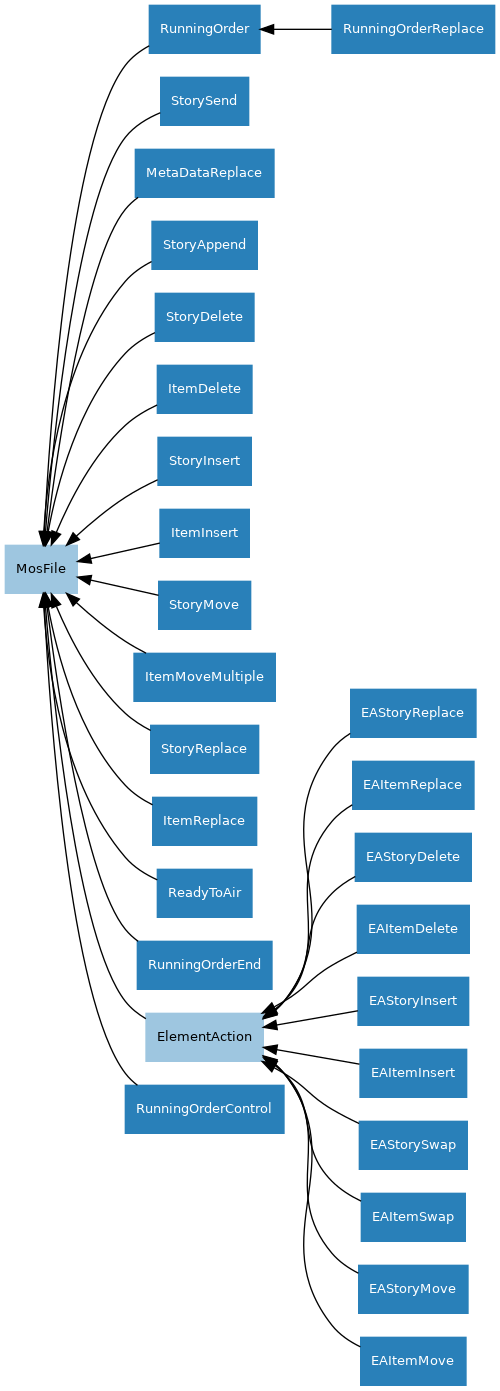
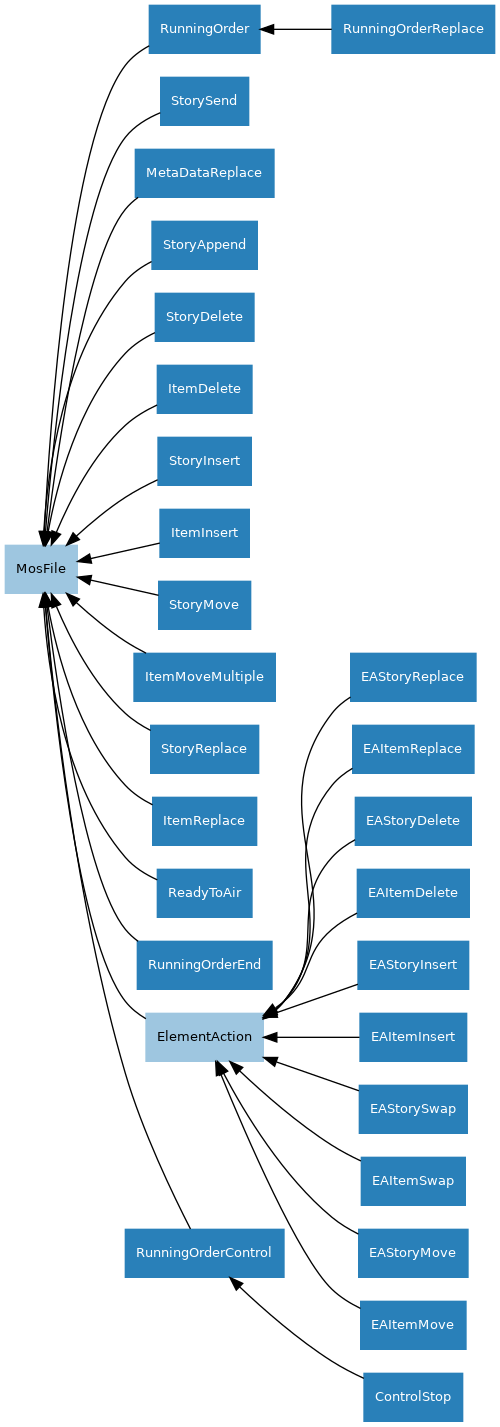
Add ControlStop as a RunningOrderControl subclass

diff --git a/tests/mostypes/test_mostype_detection.py b/tests/mostypes/test_mostype_detection.py
@@ -22,7 +22,7 @@ def test_mosfile_detect_rocreate_contents(rocreate):
     with open(rocreate) as f:
         contents = f.read()
     rc = MosFile.from_string(contents)
-    assert isinstance(rc, RunningOrder)
+    assert type(rc) == RunningOrder
 
 def test_mosfile_detect_rocreate(rocreate):
     """
@@ -30,7 +30,7 @@ def test_mosfile_detect_rocreate(rocreate):
     EXPECT: An object of type RunningOrder
     """
     rc = MosFile.from_file(rocreate)
-    assert isinstance(rc, RunningOrder)
+    assert type(rc) == RunningOrder
 
 def test_mosfile_detect_storysend(rostorysend1):
     """
@@ -38,7 +38,7 @@ def test_mosfile_detect_storysend(rostorysend1):
     EXPECT: An object of type StorySend
     """
     ss = MosFile.from_file(rostorysend1)
-    assert isinstance(ss, StorySend)
+    assert type(ss) == StorySend
 
 def test_mosfile_detect_appendstory(rostoryappend):
     """
@@ -46,7 +46,7 @@ def test_mosfile_detect_appendstory(rostoryappend):
     EXPECT: An object of type StoryAppend
     """
     sa = MosFile.from_file(rostoryappend)
-    assert isinstance(sa, StoryAppend)
+    assert type(sa) == StoryAppend
 
 def test_mosfile_detect_storydelete(rostorydelete):
     """
@@ -54,7 +54,7 @@ def test_mosfile_detect_storydelete(rostorydelete):
     EXPECT: An object of type StoryDelete
     """
     sd = MosFile.from_file(rostorydelete)
-    assert isinstance(sd, StoryDelete)
+    assert type(sd) == StoryDelete
 
 def test_mosfile_detect_storyinsert(rostoryinsert):
     """
@@ -62,7 +62,7 @@ def test_mosfile_detect_storyinsert(rostoryinsert):
     EXPECT: An object of type StoryInsert
     """
     si = MosFile.from_file(rostoryinsert)
-    assert isinstance(si, StoryInsert)
+    assert type(si) == StoryInsert
 
 def test_mosfile_detect_storymove(rostorymove):
     """
@@ -70,7 +70,7 @@ def test_mosfile_detect_storymove(rostorymove):
     EXPECT: An object of type StoryMove
     """
     sm = MosFile.from_file(rostorymove)
-    assert isinstance(sm, StoryMove)
+    assert type(sm) == StoryMove
 
 def test_mosfile_detect_storyreplace(rostoryreplace):
     """
@@ -78,7 +78,7 @@ def test_mosfile_detect_storyreplace(rostoryreplace):
     EXPECT: An object of type StoryReplace
     """
     sr = MosFile.from_file(rostoryreplace)
-    assert isinstance(sr, StoryReplace)
+    assert type(sr) == StoryReplace
 
 def test_mosfile_detect_itemdelete(roitemdelete):
     """
@@ -86,7 +86,7 @@ def test_mosfile_detect_itemdelete(roitemdelete):
     EXPECT: An object of type ItemDelete
     """
     id = MosFile.from_file(roitemdelete)
-    assert isinstance(id, ItemDelete)
+    assert type(id) == ItemDelete
 
 def test_mosfile_detect_iteminsert(roiteminsert):
     """
@@ -94,7 +94,7 @@ def test_mosfile_detect_iteminsert(roiteminsert):
     EXPECT: An object of type ItemInsert
     """
     ii = MosFile.from_file(roiteminsert)
-    assert isinstance(ii, ItemInsert)
+    assert type(ii) == ItemInsert
 
 def test_mosfile_detect_movemultipleitem(roitemmovemultiple):
     """
@@ -102,7 +102,7 @@ def test_mosfile_detect_movemultipleitem(roitemmovemultiple):
     EXPECT: An object of type ItemMoveMultiple
     """
     imm = MosFile.from_file(roitemmovemultiple)
-    assert isinstance(imm, ItemMoveMultiple)
+    assert type(imm) == ItemMoveMultiple
 
 def test_mosfile_detect_replaceitem(roitemreplace):
     """
@@ -110,7 +110,7 @@ def test_mosfile_detect_replaceitem(roitemreplace):
     EXPECT: An object of type ItemReplace
     """
     ir = MosFile.from_file(roitemreplace)
-    assert isinstance(ir, ItemReplace)
+    assert type(ir) == ItemReplace
 
 def test_mosfile_detect_roreplace(roreplace):
     """
@@ -118,7 +118,7 @@ def test_mosfile_detect_roreplace(roreplace):
     EXPECT: An object of type RunningOrderReplace
     """
     rr = MosFile.from_file(roreplace)
-    assert isinstance(rr, RunningOrderReplace)
+    assert type(rr) == RunningOrderReplace
 
 def test_mosfile_detect_elementaction_replace_story(roelementactionstoryreplace):
     """
@@ -127,7 +127,7 @@ def test_mosfile_detect_elementaction_replace_story(roelementactionstoryreplace)
     EXPECT: An object of type EAStoryReplace
     """
     ea = MosFile.from_file(roelementactionstoryreplace)
-    assert isinstance(ea, EAStoryReplace)
+    assert type(ea) == EAStoryReplace
 
 def test_mosfile_detect_elementaction_replace_item(roelementactionitemreplace):
     """
@@ -136,7 +136,7 @@ def test_mosfile_detect_elementaction_replace_item(roelementactionitemreplace):
     EXPECT: An object of type EAItemReplace
     """
     ea = MosFile.from_file(roelementactionitemreplace)
-    assert isinstance(ea, EAItemReplace)
+    assert type(ea) == EAItemReplace
 
 def test_mosfile_detect_elementaction_delete_story(roelementactionstorydelete):
     """
@@ -145,7 +145,7 @@ def test_mosfile_detect_elementaction_delete_story(roelementactionstorydelete):
     EXPECT: An object of type EAStoryDelete
     """
     ea = MosFile.from_file(roelementactionstorydelete)
-    assert isinstance(ea, EAStoryDelete)
+    assert type(ea) == EAStoryDelete
 
 def test_mosfile_detect_elementaction_delete_item(roelementactionitemdelete):
     """
@@ -154,7 +154,7 @@ def test_mosfile_detect_elementaction_delete_item(roelementactionitemdelete):
     EXPECT: An object of type EAItemDelete
     """
     ea = MosFile.from_file(roelementactionitemdelete)
-    assert isinstance(ea, EAItemDelete)
+    assert type(ea) == EAItemDelete
 
 def test_mosfile_detect_elementaction_insert_story(roelementactionstoryinsert):
     """
@@ -163,7 +163,7 @@ def test_mosfile_detect_elementaction_insert_story(roelementactionstoryinsert):
     EXPECT: An object of type EAStoryInsert
     """
     ea = MosFile.from_file(roelementactionstoryinsert)
-    assert isinstance(ea, EAStoryInsert)
+    assert type(ea) == EAStoryInsert
 
 def test_mosfile_detect_elementaction_insert_item(roelementactioniteminsert):
     """
@@ -172,7 +172,7 @@ def test_mosfile_detect_elementaction_insert_item(roelementactioniteminsert):
     EXPECT: An object of type EAItemInsert
     """
     ea = MosFile.from_file(roelementactioniteminsert)
-    assert isinstance(ea, EAItemInsert)
+    assert type(ea) == EAItemInsert
 
 def test_mosfile_detect_elementaction_swap_story(roelementactionstoryswap):
     """
@@ -181,7 +181,7 @@ def test_mosfile_detect_elementaction_swap_story(roelementactionstoryswap):
     EXPECT: An object of type EAStorySwap
     """
     ea = MosFile.from_file(roelementactionstoryswap)
-    assert isinstance(ea, EAStorySwap)
+    assert type(ea) == EAStorySwap
 
 def test_mosfile_detect_elementaction_swap_item(roelementactionitemswap):
     """
@@ -190,7 +190,7 @@ def test_mosfile_detect_elementaction_swap_item(roelementactionitemswap):
     EXPECT: An object of type EAItemSwap
     """
     ea = MosFile.from_file(roelementactionitemswap)
-    assert isinstance(ea, EAItemSwap)
+    assert type(ea) == EAItemSwap
 
 def test_mosfile_detect_elementaction_move_story(roelementactionstorymove):
     """
@@ -199,7 +199,7 @@ def test_mosfile_detect_elementaction_move_story(roelementactionstorymove):
     EXPECT: An object of type EAStoryMove
     """
     ea = MosFile.from_file(roelementactionstorymove)
-    assert isinstance(ea, EAStoryMove)
+    assert type(ea) == EAStoryMove
 
 def test_mosfile_detect_elementaction_move_item(roelementactionitemmove):
     """
@@ -208,7 +208,7 @@ def test_mosfile_detect_elementaction_move_item(roelementactionitemmove):
     EXPECT: An object of type EAItemMove
     """
     ea = MosFile.from_file(roelementactionitemmove)
-    assert isinstance(ea, EAItemMove)
+    assert type(ea) == EAItemMove
 
 def test_mosfile_detect_metadata_replace(rometadatareplace):
     """
@@ -216,7 +216,7 @@ def test_mosfile_detect_metadata_replace(rometadatareplace):
     EXPECT: An object of type MetaDataReplace
     """
     ea = MosFile.from_file(rometadatareplace)
-    assert isinstance(ea, MetaDataReplace)
+    assert type(ea) == MetaDataReplace
 
 def test_mosfile_detect_delete(rodelete):
     """
@@ -224,11 +224,15 @@ def test_mosfile_detect_delete(rodelete):
     EXPECT: An object of type RunningOrderEnd
     """
     rd = MosFile.from_file(rodelete)
-    assert isinstance(rd, RunningOrderEnd)
+    assert type(rd) == RunningOrderEnd
 
 def test_mosfile_detect_readytoair(roreadytoair):
     rta = MosFile.from_file(roreadytoair)
-    assert isinstance(rta, ReadyToAir)
+    assert type(rta) == ReadyToAir
+
+def test_mosfile_detect_roctrl(roctrl):
+    rc = MosFile.from_file(roctrl)
+    assert type(rc) == ControlStop
 
 def test_get_mos_object_invalid_mos_type(roinvalid):
     with pytest.raises(UnknownMosFileType):

diff --git a/mosromgr/mostypes.py b/mosromgr/mostypes.py
@@ -90,8 +90,8 @@ class MosFile:
         "Classify the MOS type and return an instance of the relevant class"
         for tag, subcls in TAG_CLASS_MAP.items():
             if xml.find(tag):
-                if subcls == ElementAction:
-                    return ElementAction._classify(xml)
+                if subcls in (ElementAction, RunningOrderControl):
+                    return subcls._classify(xml)
                 return subcls(xml)
         raise UnknownMosFileType("Unable to determine MOS file type")
 
@@ -1784,21 +1784,21 @@ class EAItemMove(ElementAction):
 
 
 class RunningOrderControl(MosFile):
-    """
-    A ``RunningOrderControl`` object is created from a ``roCtrl`` MOS file and
-    can be constructed using classmethods :meth:`from_file`, :meth:`from_string`
-    or :meth:`from_s3`.
+    "Base class for various ``roCtrl`` MOS files"
+    @classmethod
+    def _classify(cls, xml):
+        "Classify the MOS type and return an instance of the relevant class"
+        cmd = xml.find('roCtrl').find('command').text
+        subcls = CTRL_CLASS_MAP[cmd]
+        return subcls(xml)
 
-    *Specification: Running Order Control*
-    http://mosprotocol.com/wp-content/MOS-Protocol-Documents/MOSProtocolVersion40/index.html#calibre_link-47
-
-    TODO: generalise this class #20
-    """
     @property
     def base_tag_name(self):
         "The name of the base XML tag for this file type (:class:`str`)"
         return 'roCtrl'
 
+
+class ControlStop(RunningOrderControl):
     @property
     def story(self):
         "The story to which this roCtrl message relates"
@@ -1829,7 +1829,7 @@ class RunningOrderControl(MosFile):
 
     def inspect(self):
         "Print an outline of the key file contents"
-        print("RO CTRL FOR STORY:", self.story.id)
+        print("RO CTRL STOP FOR STORY:", self.story.id)
 
 
 TAG_CLASS_MAP = {
@@ -1858,4 +1858,8 @@ EA_CLASS_MAP = {
     'INSERT': lambda ea: EAStoryInsert if ea.find('element_target').find('itemID') is None else EAItemInsert,
     'SWAP': lambda ea: EAStorySwap if ea.find('element_target') is None else EAItemSwap,
     'MOVE': lambda ea: EAStoryMove if ea.find('element_target').find('itemID') is None else EAItemMove,
+}
+
+CTRL_CLASS_MAP = {
+    'STOP': ControlStop,
 }

diff --git a/tests/conftest.py b/tests/conftest.py
@@ -117,6 +117,10 @@ def rodelete():
 def roreadytoair():
     return MOCK_MOS / 'roReadyToAir.mos'
 
+@pytest.fixture()
+def roctrl():
+    return MOCK_MOS / 'roCtrl.mos'
+
 
 @pytest.fixture()
 def ro_all(rocreate, rostorysend1, rostorysend2, roelementactionstoryreplace,

diff --git a/docs/api_mostypes.rst b/docs/api_mostypes.rst
@@ -290,10 +290,10 @@ RunningOrderEnd
     :inherited-members:
     :special-members: __add__, __lt__, __gt__, __str__
 
-RunningOrderControl
--------------------
+ControlStop
+-----------
 
-.. autoclass:: RunningOrderControl()
+.. autoclass:: ControlStop()
     :show-inheritance:
     :members:
     :inherited-members:
@@ -319,5 +319,12 @@ ElementAction
 -------------
 
 .. autoclass:: ElementAction()
+    :members:
+    :inherited-members:
+
+RunningOrderControl
+-------------------
+
+.. autoclass:: RunningOrderControl()
     :members:
     :inherited-members:
